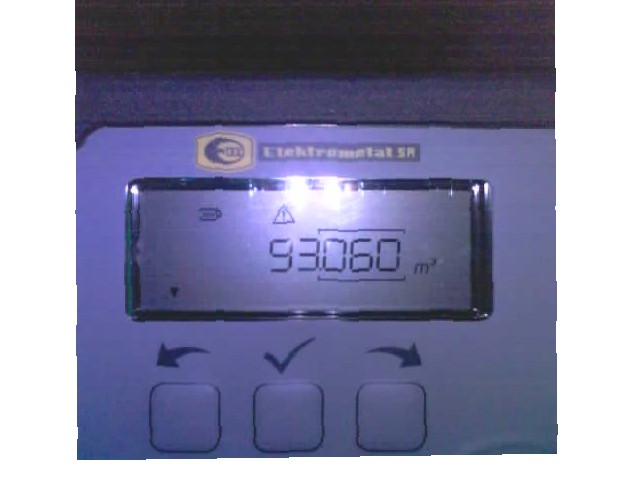
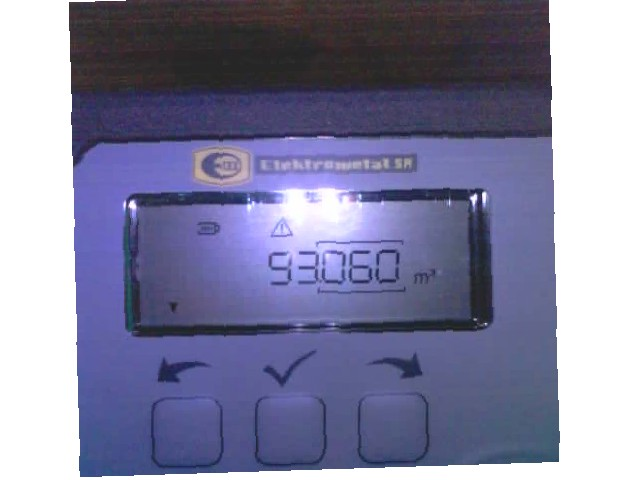
Automatyczna aktualizacja strony i danych

diff --git a/index.html b/index.html
@@ -35,11 +35,11 @@
 <body>
     <div class="container">
         <h1>Bieżący Stan Licznika</h1>
-        <div class="status">Ostatnia aktualizacja danych:<br><span class="timestamp">2026-10-26 18:53:41</span></div>
+        <div class="status">Ostatnia aktualizacja danych:<br><span class="timestamp">2026-10-26 18:59:08</span></div>
         <div class="odczyt">92620 m³</div>
         <div class="uwaga">Ostatni odczyt się nie powiódł, wyświetlana jest poprzednia poprawna wartość.</div>
         <h3>Aktualne zdjęcie z gazomierza:</h3>
-        <img src="img_tmp/alg.jpg?t=1793037221" alt="Zdjęcie licznika">
+        <img src="img_tmp/alg.jpg?t=1793037548" alt="Zdjęcie licznika">
     </div>
 </body>
 </html>
